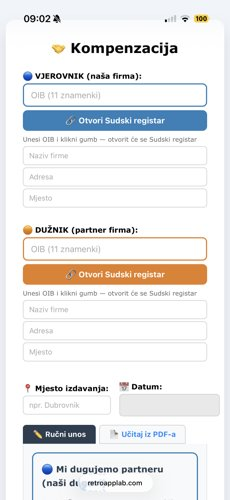
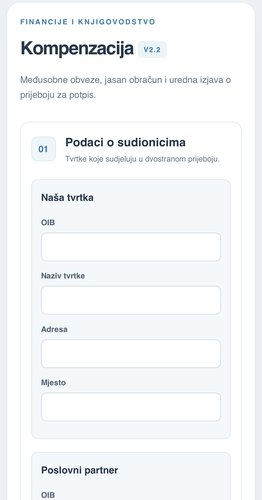
Kompenzacija – ažurirana kartica na portalu (uklonjen Sudski registar)
Claude-Session: https://claude.ai/code/session_01FfEAUH39irFBXd8UJfE9yU

diff --git a/index.html b/index.html
@@ -1138,7 +1138,7 @@
           <h4>Kompenzacija</h4>
           <p style="font-size:0.85rem;color:var(--text-muted);">Izjava o prijeboju između dvije firme — ručni unos ili iz PDF konto kartice, automatski izračun i gotov dokument za potpis.</p>
           <div class="ft-features">
-            <span>🔗 OIB pretraga na Sudskom registru</span>
+            <span>📄 Uvoz iz PDF konto kartice</span>
             <span>🧮 Automatski izračun kompenzacije</span>
             <span>🖨 Gotov dokument za potpis</span>
           </div>
